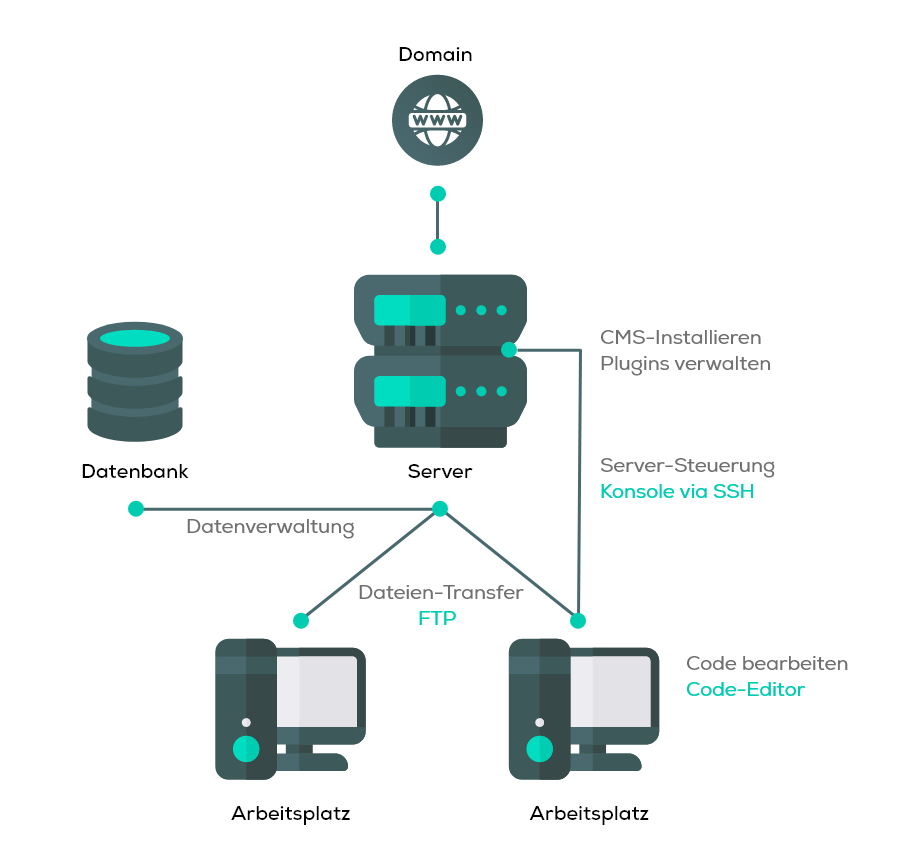
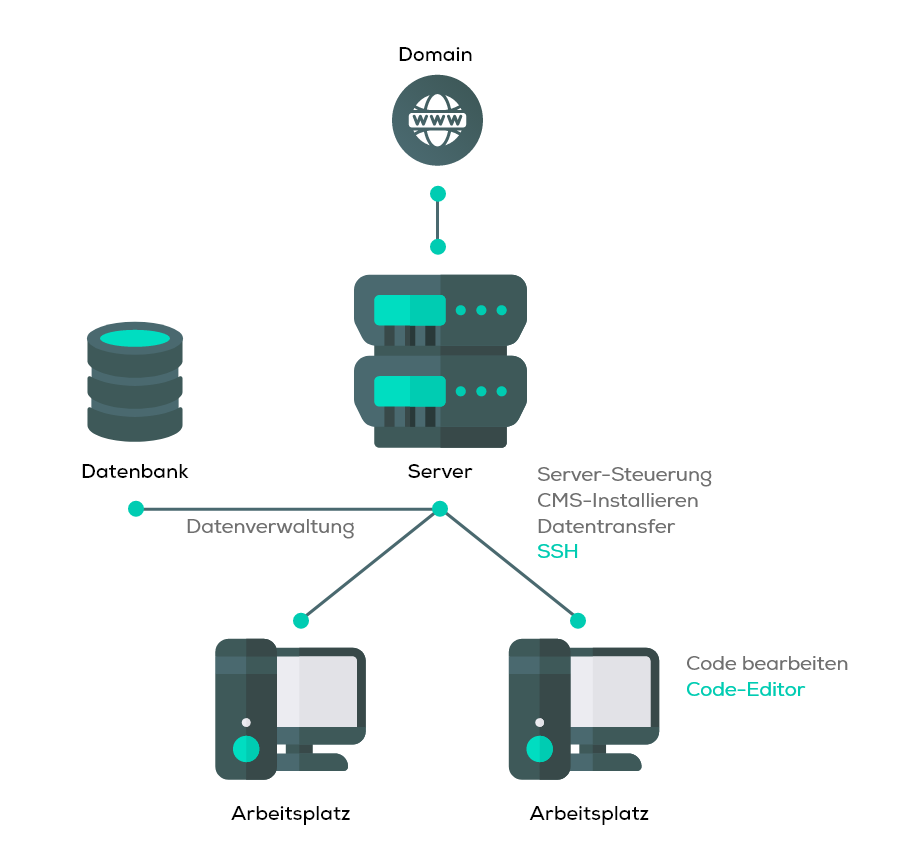
Anpassungen für SSH-Remote-Plugin von VS-Code

Changed region(s): [[0.5924, 0.3737, 0.8731, 0.6851], [0.4053, 0.654, 0.5612, 0.7163], [0.5612, 0.3737, 0.6236, 0.436]]

diff --git a/Tag 2/01 Infrastruktur/01 Werkzeuge/README.md b/Tag 2/01 Infrastruktur/01 Werkzeuge/README.md
@@ -20,6 +20,8 @@ Solltest du dich für ein anderes Programm entscheiden, ist es in deiner Verantw
 
 Plugins sind Erweiterungen für deinen Code-Editor, um dir das Arbeiten etwas zu vereinfachen. Um Plugins zu installieren, gehe im Menü auf `File -> Preferences -> Extensions` (Ctrl + Shift + X). Du kannst jetzt den Namen eines Plugins eingeben und es über den «Install»-Button installieren.
 
+#### Nützliche Plugins für Code-Bearbeitung
+
 Folgende Plugins könnten für die nützlich sein:
 
 | Plugin Name      | Beschreibung                                                                                                    |
@@ -57,45 +59,66 @@ ul>li{Punkt $}*3  -> TAB-Drücken
 
 ### Konsole (Terminal)
 
-Die Konsole, oder das Terminal, ist eine alternative Art einen Computer zu steuern. Anstelle von einer graphischen Benutzeroberfläche, werden bestimmte Befehle in der Konsole eingegeben und dann vom Computer verarbeitet.
+Die Konsole, oder das Terminal, ist eine alternative Art einen Computer zu steuern. Anstelle von einer grafischen Benutzeroberfläche, werden bestimmte Befehle in der Konsole eingegeben und dann vom Computer verarbeitet.
 
 Ein Beispiel: Du erstellst im Datei-Explorer den Ordner `Bilder`. Dies ist gleichbedeutend mit dem Konsolenbefehl `mkdir Bilder`.
 
-#### SSH
+#### SSH (Secure Shell)
 
-In der Konsole kann das `ssh` Programm benutzt werden, um eine Konsole auf einem anderen Computer/Server über das Netzwerk oder Internet zu öffnen. Dies ermöglicht dir, einen Computer fernzusteuern.
+In der Konsole kann ein `ssh` Programm benutzt werden, um eine Konsole auf einem anderen Computer/Server über das Netzwerk oder Internet zu öffnen. Dies ermöglicht dir, einen Computer fernzusteuern.
 
-In unserem Fall benötigen wir die Konsole um eine Verbindung mit dem Hosting-Server herzustellen um darauf das CMS zu installieren und zu verwalten.
+In unserem Fall benötigen wir die Konsole, um eine Verbindung mit dem Hosting-Server herzustellen, um darauf das CMS zu installieren und Änderungen am Code vorzunehmen oder lokale Dateien in das Dateisystem des Servers zu transferieren.
 
-#### Konsole öffnen
+### Plugin: Remote-SSH
 
-Um die Konsole im VS Code zu öffnen, gehe im Menü auf `View -> Terminal` (Ctrl + ¨). Nun öffnet sich das Terminal auf der unteren Seite des Editors. 
+Um das Handling des Servers zu vereinfachen, bietet VS-Code das Plugin «Remote - SSH» an.
 
-#### SSH-Test
+![Plugin in den Extensions](res/01.png)
 
-Damit wir uns mit dem Server verbinden können, benötigen wir den `ssh` Befehl. Um zu testen, ob dieser in deiner Konsole verfügbar ist, gib den Befehl `ssh` ein und drücke die `Enter`-Taste. Sofern das Modul installiert ist, solltest du eine ähnliche Rückmeldung wie diese erhalten:
+Sobald du das Plugin installiert hast, erscheint am unteren linken Rand des Fensters eine neue Statusbar:
+
+![Statusbar](res/02.png)
+
+Mit einem Klick auf die Statusbar können wir mit der Einrichtung der Verbindung zum Server starten:
+
+![Connect to Host...](res/03.png)
+
+
+#### SSH-Server hinzufügen
+Mit einem Klick auf `+ Add News SSH Host...` kannst Du eine neue Server-Verbindung erfassen. Diese wird vom VS-Code gespeichert und kann anschliessend immer wieder genutzt/aufgebaut werden.
+
+Die im nächsten Schritt benötigten Zugangsdaten findest du im Moodle. Trage diese anschliessend ein::
 
 ```shell
-PS C:\Users\user> ssh
-usage: ssh [-46AaCfGgKkMNnqsTtVvXxYy] [-B bind_interface]
-           [-b bind_address] [-c cipher_spec] [-D [bind_address:]port]
-           [-E log_file] [-e escape_char] [-F configfile] [-I pkcs11]      
-           [-i identity_file] [-J [user@]host[:port]] [-L address]
-           [-l login_name] [-m mac_spec] [-O ctl_cmd] [-o option] [-p port]
-           [-Q query_option] [-R address] [-S ctl_path] [-W host:port]
-           [-w local_tun[:remote_tun]] destination [command]
+# ssh benutzername@server
+ssh m289gX@m289gX.kurse.ict-bz.ch
 ```
 
+Als Nächstes fragt dich das VS-Code, wo die SSH-Konfiguration gespeichert werden soll. Hast entweder den Standardpfad bestätigen oder einen eigenen Speicherort wählen:
 
-## FTP-Programm
+```shell
+C:\Users\user\.ssh\config
+```
 
-FTP bedeutet File Transfer Protocol. Es ist ein Kommunikationsprotokoll, um Dateien zwischen unterschiedlichen Computersystemen auszutauschen. Die Kommunikation findet nach dem Client-Server-Prinzip statt.
+#### SSH-Server verbinden
+Nun können wir uns mit dem Server verbinden, indem wir die erfasste Server-Verbindung `m289gX@m289gX.kurse.ict-bz.ch` auswählen. Nun erscheint ein neues Fenster, wo wir das Betriebssystem des Zielservers angeben müssen. In unserem Fall handelt es sich um einen `Linux`-Server.
 
-Das heißt, es gibt einen FTP-Client, der wie ein Datei-Manager funktioniert. Und es gibt einen FTP-Server, der dem FTP-Client Dateien zur Verfügung bzw. Speicherplatz für Dateien bereitstellt. Der FTP-Client kann Dateien auf dem FTP-Server ablegen, löschen oder herunterladen.
+Anschliessend kannst du das Passwort eingeben. Das Passwort findest du ebenfalls im Moodle.
 
-Der typische Anwendungsfall wäre die Dateiübertragung auf einen Webserver, der nicht nur aus einem HTTP-Server, sondern auch aus einem FTP-Server besteht. Per FTP können also HTML- und Bild-Dateien auf einen Webserver übertragen und verwaltet werden.
 
-#### FTP-Programm installieren
 
-* https://winscp.net/
-* https://filezilla-project.org/ (Achtung: McAfee!)
+### TBD: Navigieren
+
+Nach der erfolgreichen Verbindung mit dem Server sind wir nun im Home-Verzeichnis gelandet. Das Hosting ist so eingestellt, dass sämtliche Aufrufe der Domain `m289gX.kurse.ict-bz.ch` ins `/web`-Verzeichnis geleitet werden. Um das Verzeichnis zu betreten, kann der `cd` (change directory) Befehl verwendet werden:
+
+```shell
+cd web
+```
+
+Anschliessend sollte die letzte Linie der Konsole so aussehen: `m289gX@dedi5011:[~/web]:`.
+
+Mit dem `ls` (list directory contents) Befehl kannst du überprüfen, welche Dateien und Ordner bereits existieren:
+
+```shell
+ls
+```
